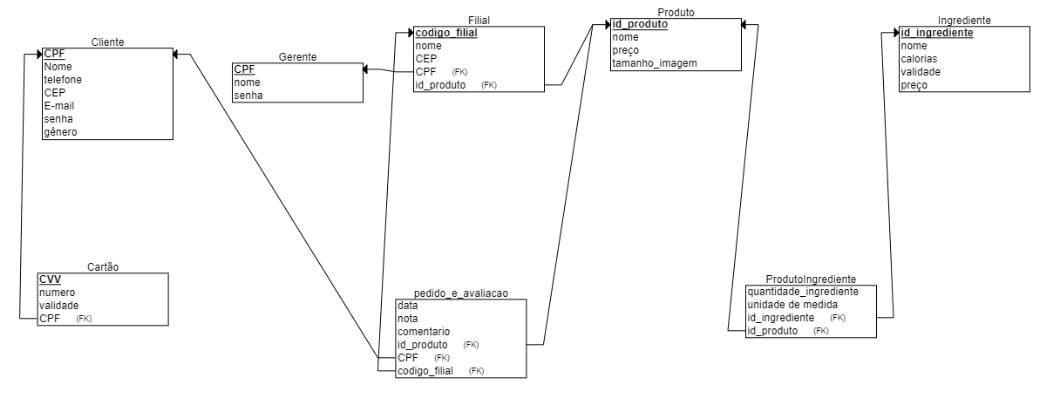
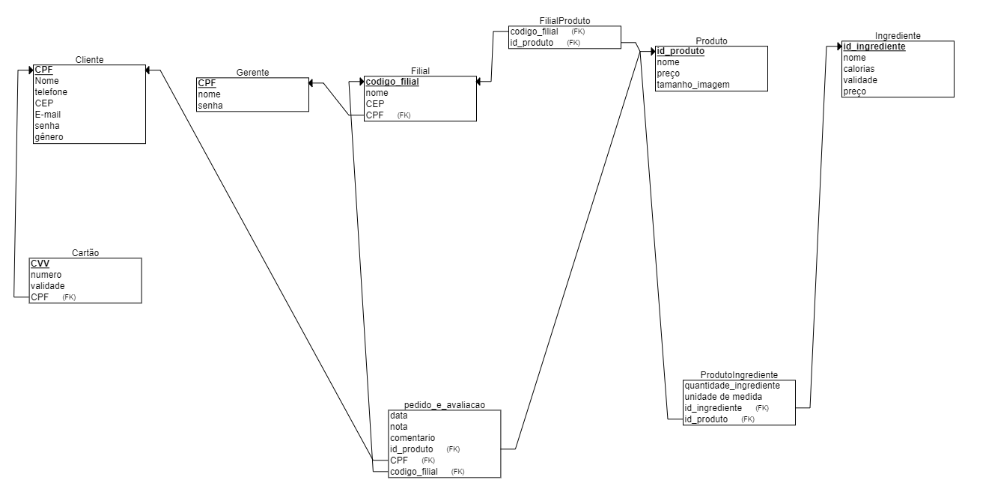
tabela filialProduto

diff --git a/README.md b/README.md
@@ -37,7 +37,7 @@ drop table if exists produto cascade;
 drop table if exists ingrediente cascade;
 drop table if exists pedido_e_avaliacao cascade;
 drop table if exists produtoIngrediente;
-
+drop table if exists filialProduto;
 --criar tabelas
 
 create table cartao
@@ -87,13 +87,19 @@ create table produto
   (codigo_filial text,
    nome_filial text,
    cep text,
-   id_produto text,
    cpf_gerente text,
-  foreign key (id_produto) references produto (id_produto),
   foreign key (cpf_gerente) references gerente (cpf_gerente),
   primary key(codigo_filial)
   );
   
+  create table filialProduto
+    (id_produto text,
+     codigo_filial text,
+    foreign key (id_produto) references produto (id_produto),
+    foreign key (codigo_filial) references filial (codigo_filial)
+    );
+
+
     create table pedido_e_avaliacao
     (data date, 
     nota float, 
